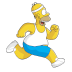
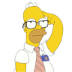
Add ToDo

diff --git a/todo.html b/todo.html
@@ -16,7 +16,7 @@
             <table>
                 <tr>
                     <td>
-                        <img src="https://raw.githubusercontent.com/albiberto/automation-images/main/asserts/Refined/Homer-Refined-96x96.png" alt="status-img"/>
+                        <img src="https://raw.githubusercontent.com/albiberto/automation-images/main/asserts/ToDo/Homer-ToDo-96x96.png" alt="status-img"/>
                     </td>
                     <td style="vertical-align: middle;">
                         <table>
@@ -27,7 +27,7 @@
                                         <a href="https://jira.euris.it/browse/{{issue.parent.key}}">{{issue.parent.key}}</a>&nbsp;/
                                     {{/}}
                                     <a href="{{url}}">{{key}}</a>
-                                    &nbsp;&nbsp;&nbsp;&nbsp;<span style="background-color: #8fe15f;">&nbsp;&nbsp;{{issue.status.name}}&nbsp;&nbsp;</span>
+                                    &nbsp;&nbsp;&nbsp;&nbsp;<span style="background-color: #5fa6e1;">&nbsp;&nbsp;{{issue.status.name}}&nbsp;&nbsp;</span>
                                 </td>
                             </tr>
                             <tr>
@@ -144,6 +144,39 @@
                                             <td><strong>Reporter:</strong>&nbsp;</td>
                                             <td><img src="{{reporter.avatarUrls.&quot;24x24&quot;}}" style="border-radius: 100%;" /></td>
                                             <td>{{issue.reporter.displayName}}</td>
+                                        </tr>
+                                    </table>
+                                </td>
+                            </tr>
+
+                            <tr>
+                                <td>
+                                    <table>
+                                        <tr>
+                                            <td><strong>Start Date:</strong>&nbsp;</td>
+                                            <td>{{issue.Start Date}}</td>
+                                        </tr>
+                                    </table>
+                                </td>
+                            </tr>
+                            
+                            <tr>
+                                <td>
+                                    <table>
+                                        <tr>
+                                            <td><strong>Due Date:</strong>&nbsp;</td>
+                                            <td>{{issue.Due Date}}</td>
+                                        </tr>
+                                    </table>
+                                </td>
+                            </tr>
+
+                            <tr>
+                                <td>
+                                    <table>
+                                        <tr>
+                                            <td><strong>Original Estimate:</strong>&nbsp;</td>
+                                            <td>{{issue.OriginalEstimate}}</td>
                                         </tr>
                                     </table>
                                 </td>
